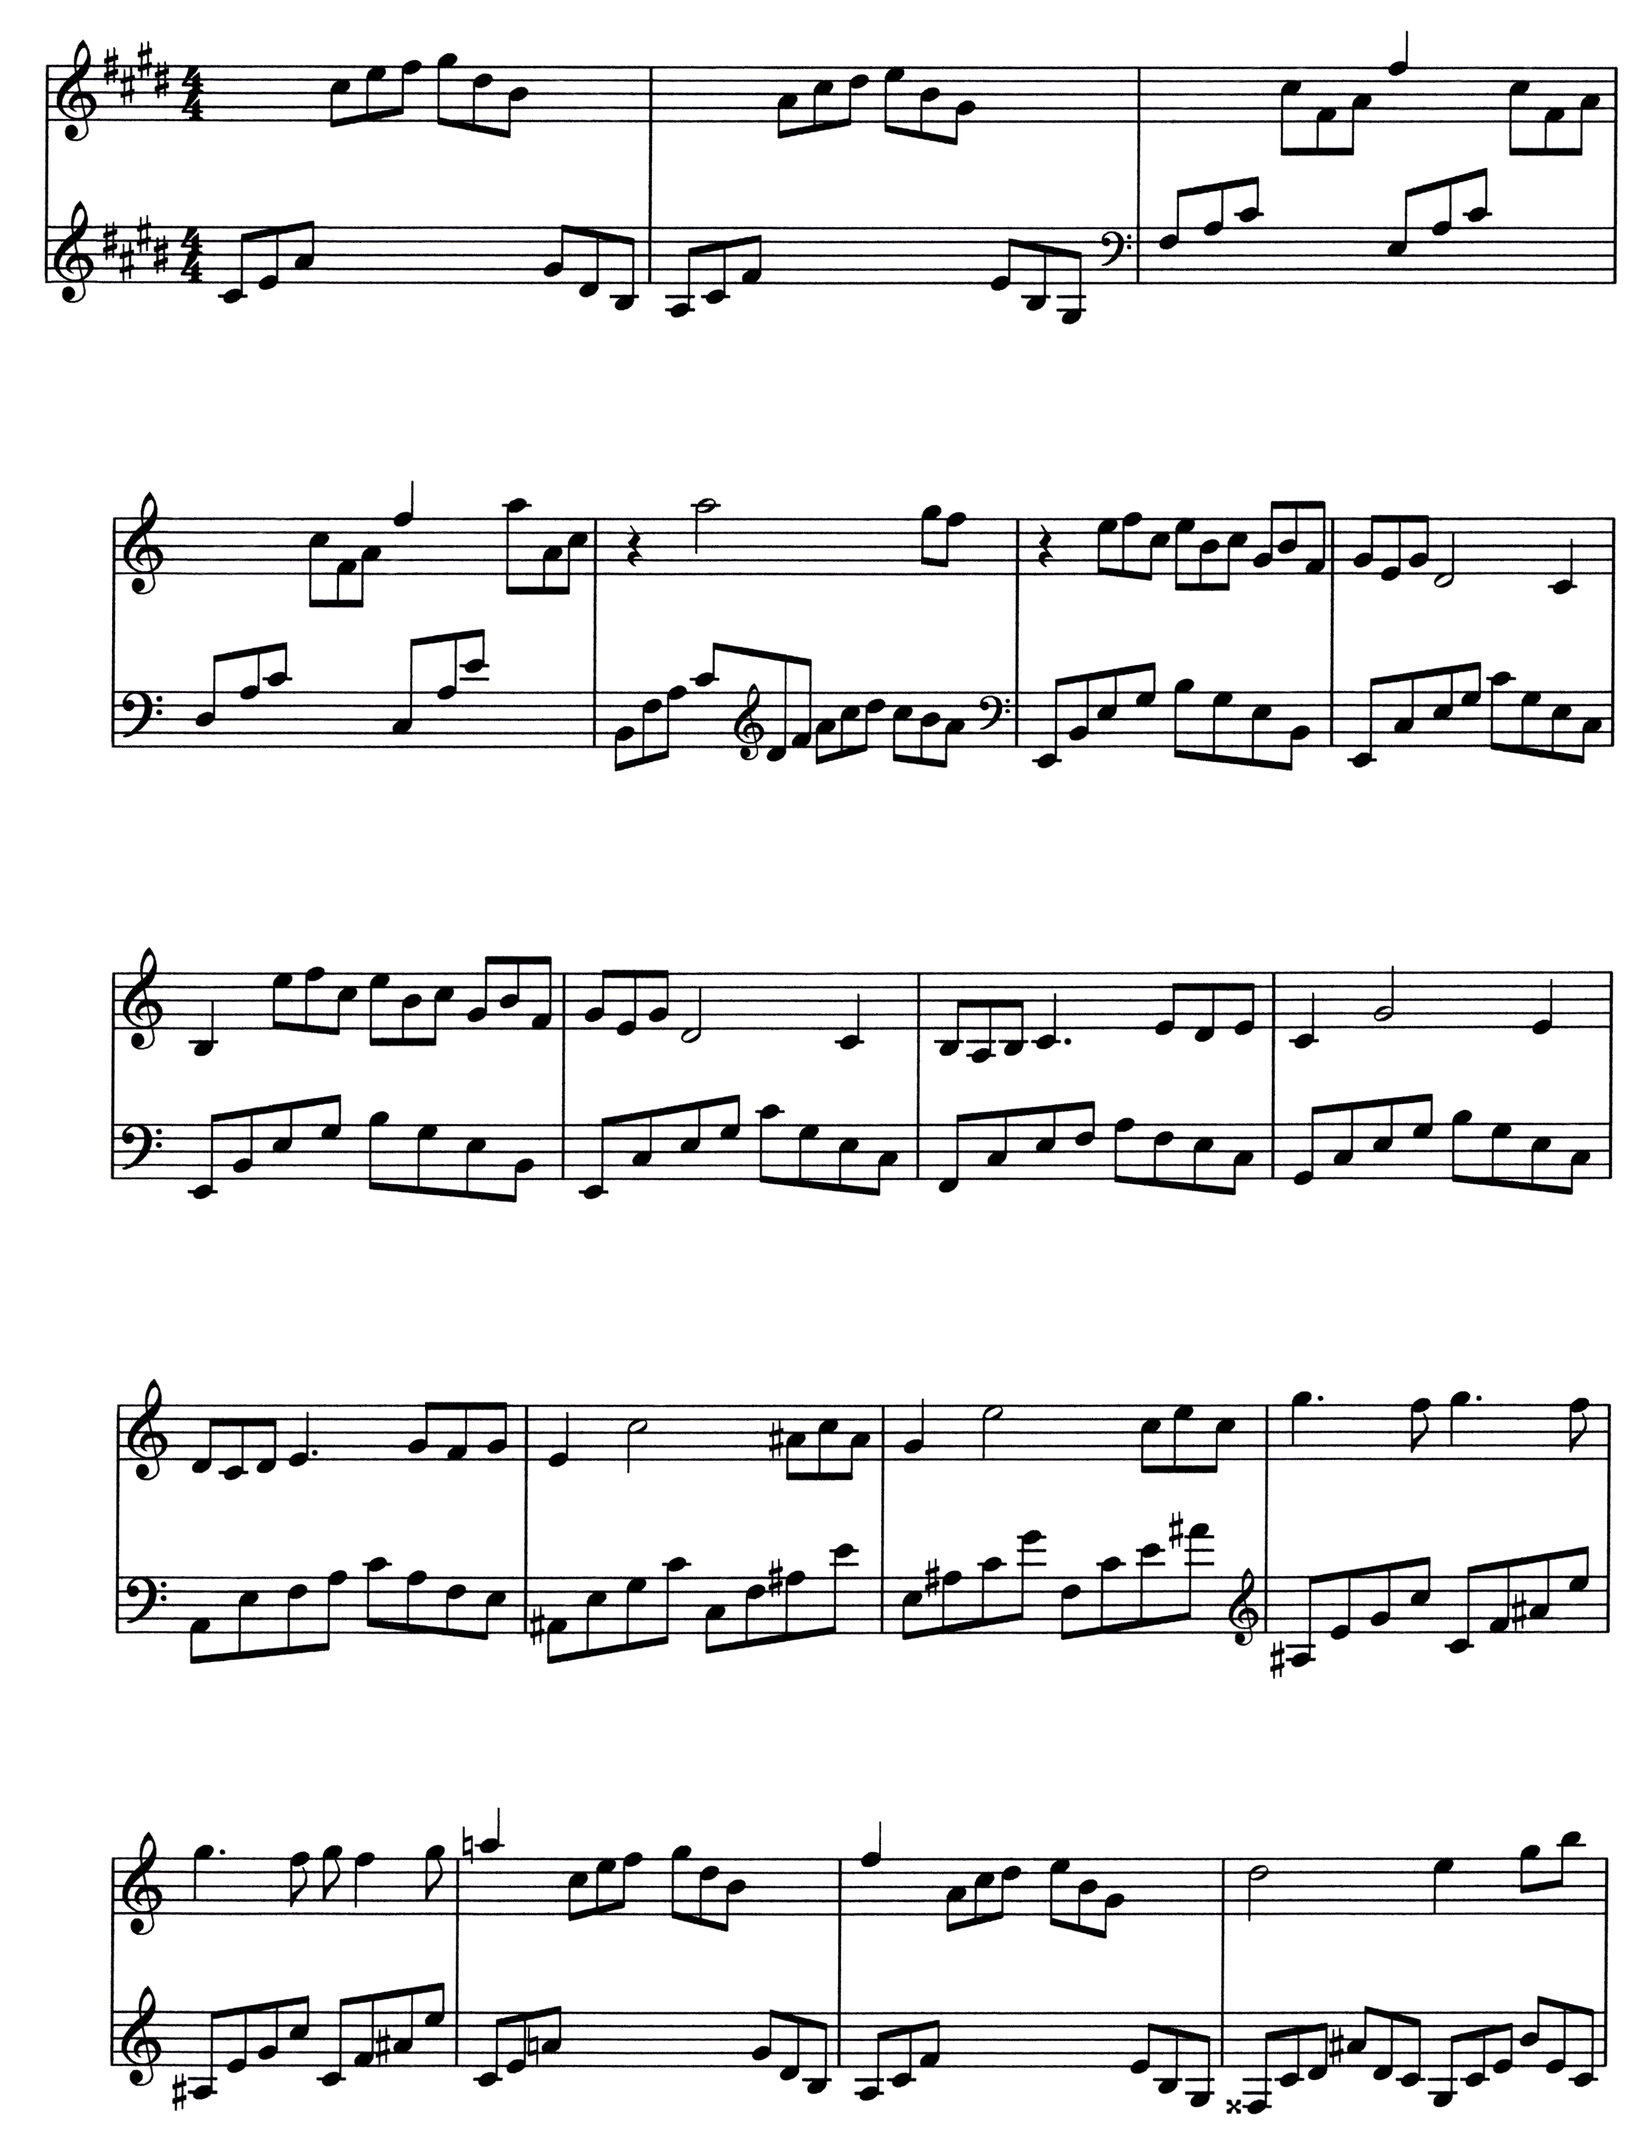
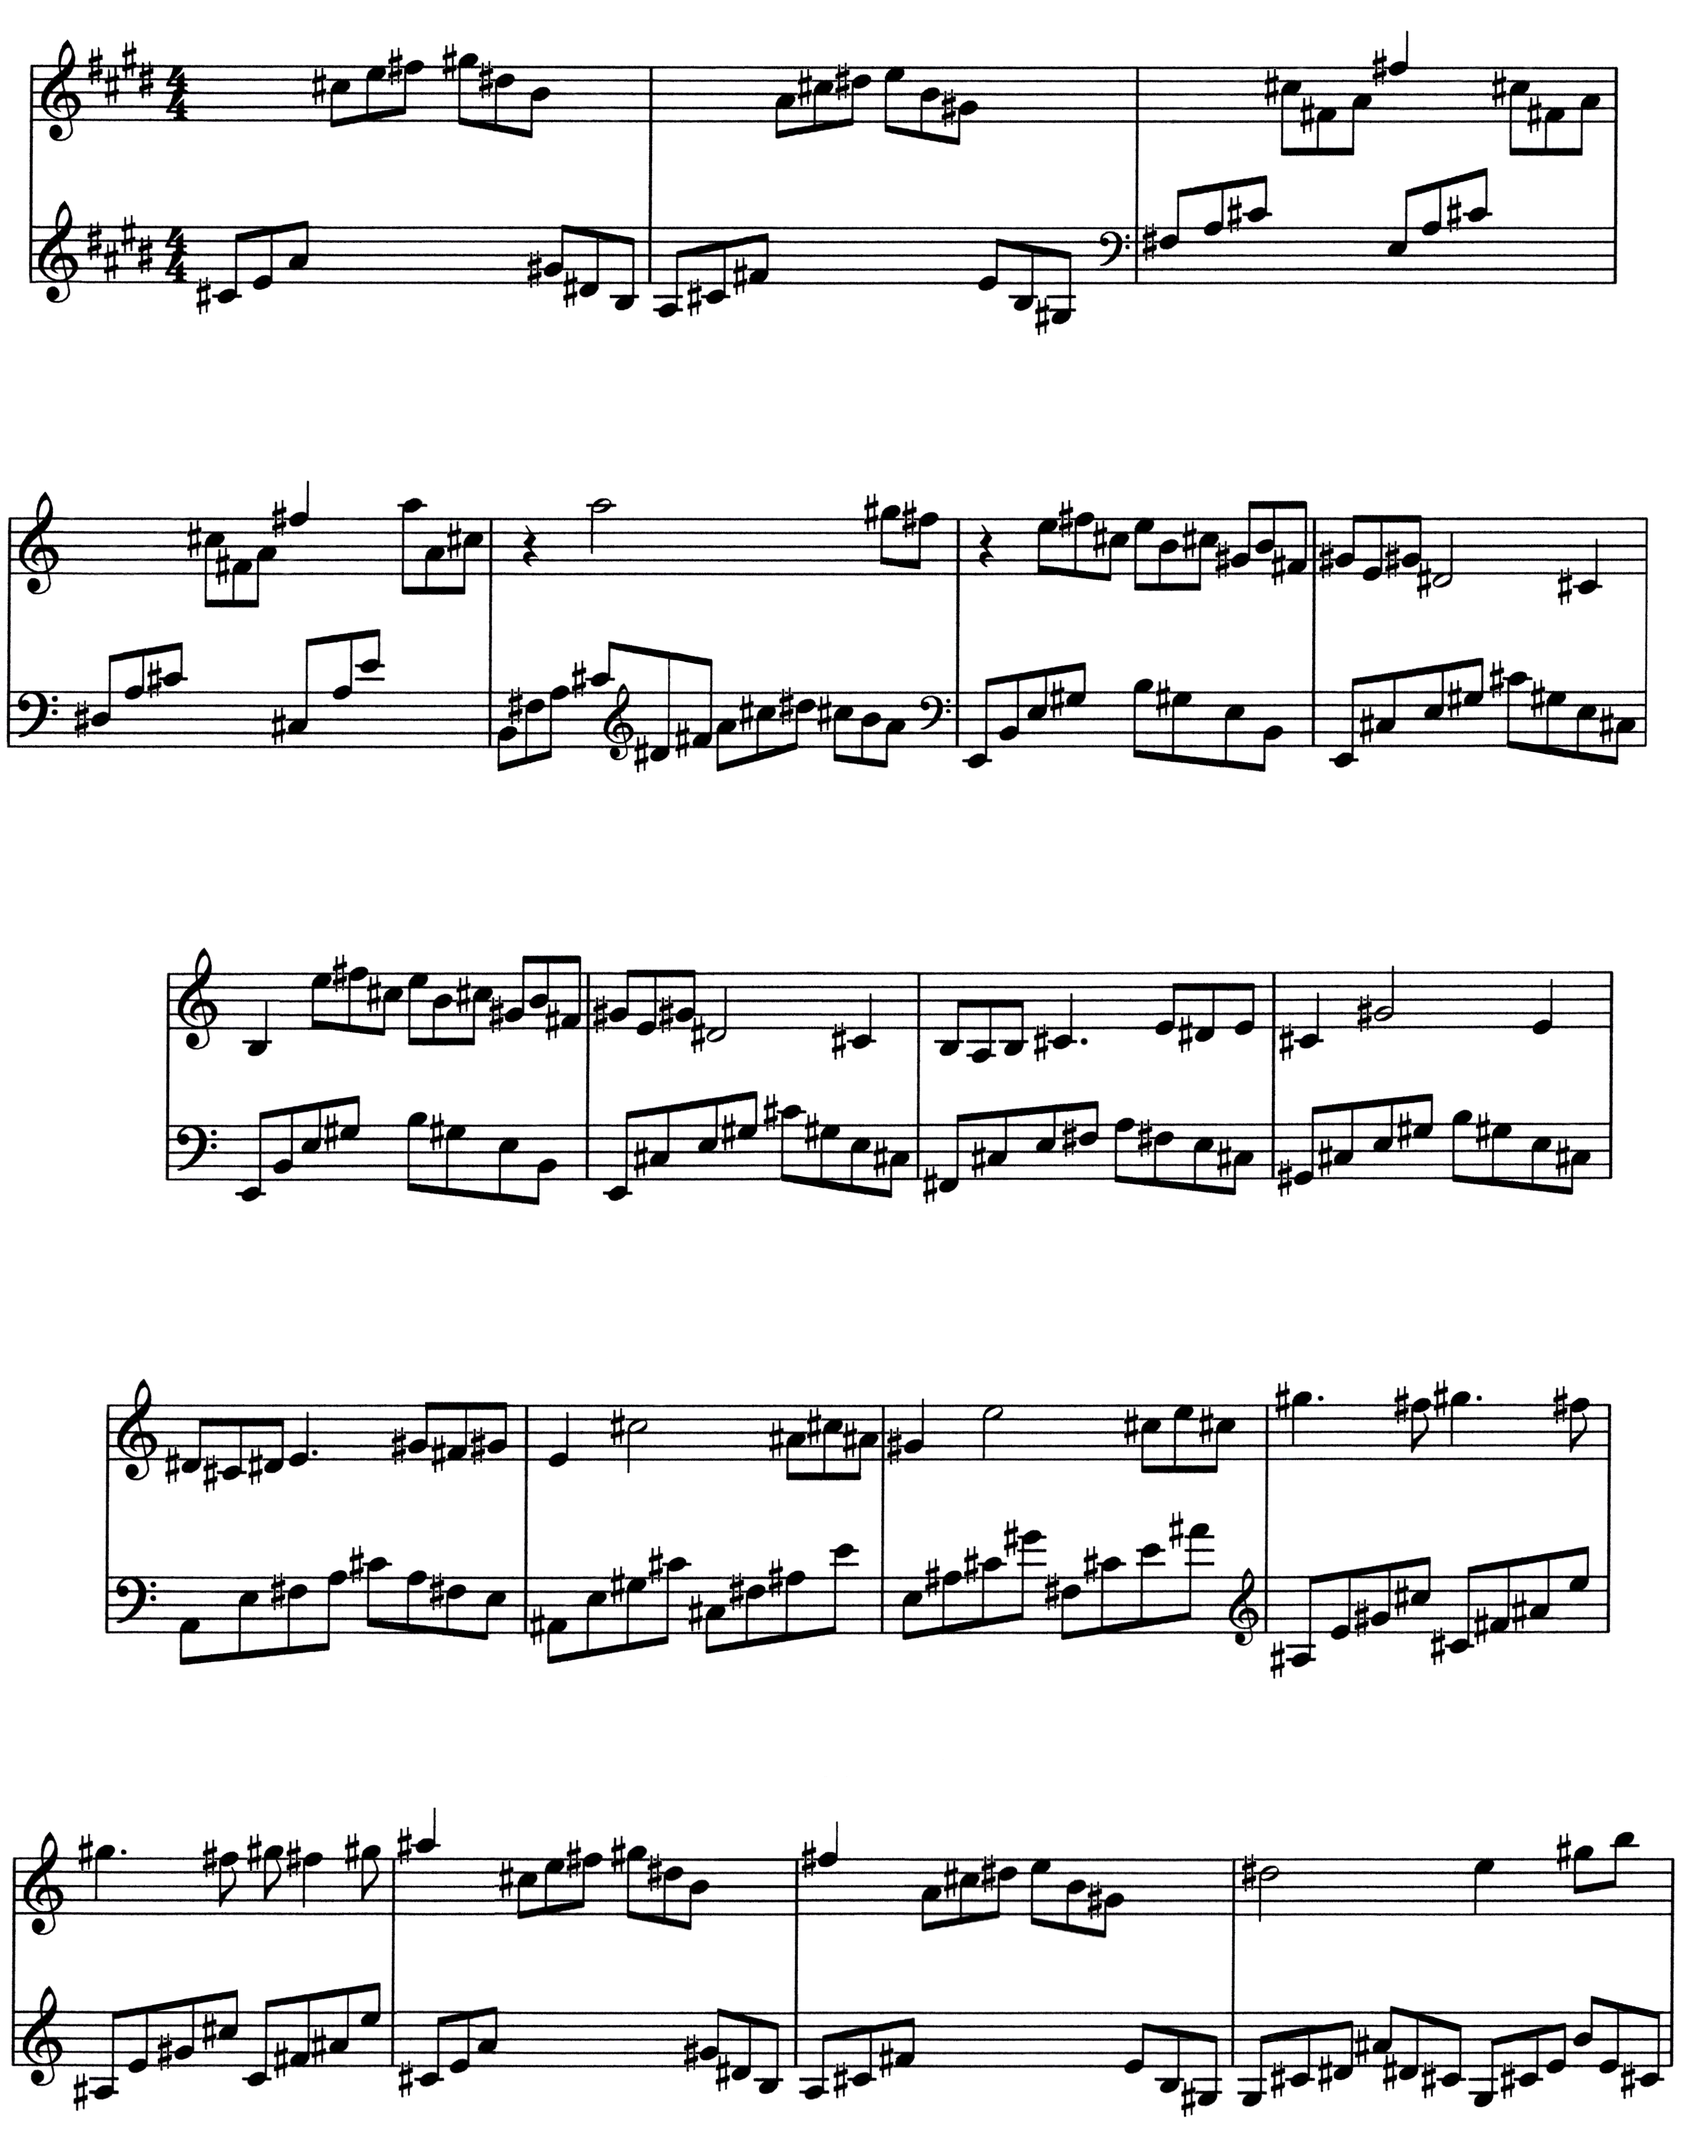
🎼 Debussy Arabesque I Sheet Music Simplified: Adding accidentals (even when part of key).

diff --git a/debussy-arabesque-1/debussy-arabesque-1-todo.md b/debussy-arabesque-1/debussy-arabesque-1-todo.md
@@ -19,12 +19,12 @@ TODO
     - [ ] Checking again?
     - [ ] Not sure ♯ looks better than #.
     - [ ] Avoiding small superscript letters?
-- [ ] Sheet music 
-    - [ ] Might be difficult to read:
-    - [ ] Faint (grey)
-    - [ ] Colored notes fainter
-    - [ ] Clutter
-    - [ ] https://michaelkravchuk.com/free-piano-sheet-music-first-arabesque-debussy/
+- [x] Sheet music 
+    - [x] Might be difficult to read:
+    - [x] Faint (grey)
+    - [x] Colored notes fainter
+    - [x] Clutter
+    - [x] https://michaelkravchuk.com/free-piano-sheet-music-first-arabesque-debussy/
     - [x] Asked if I could publish derivative works.
 - [ ] Chord symbol digitization (full chords)
 
@@ -44,5 +44,6 @@ TODO
 - [x] ~~Removing repeated clefts.~~ > Changes too often.
 - [x] Simplifying note durations / voicing notation.
 - [ ] Adding accidentals (even when part of key) (might take a few hours more).
+    - [ ] WAS AT: Page 2
 - [ ] Adding title (adding the word 'simplified')
 - [ ] Adding page numbers (font not too small)
